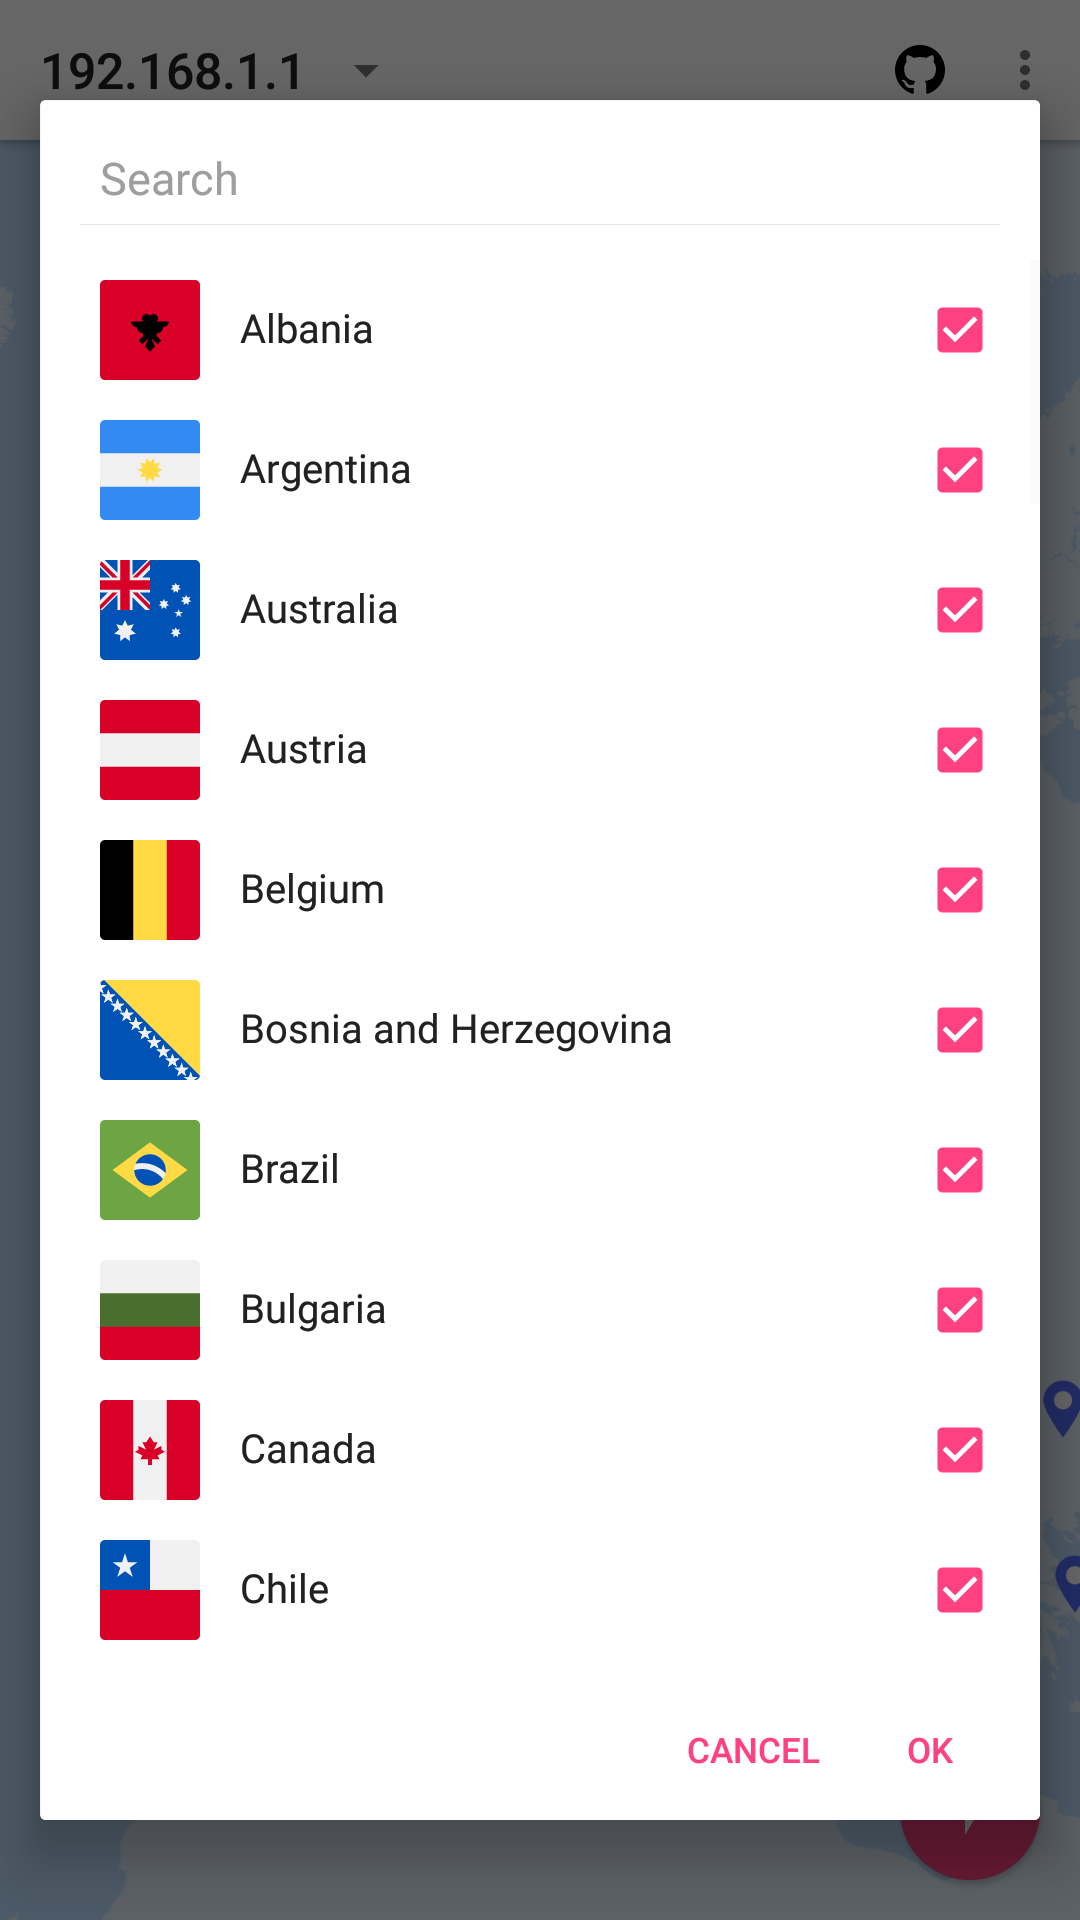
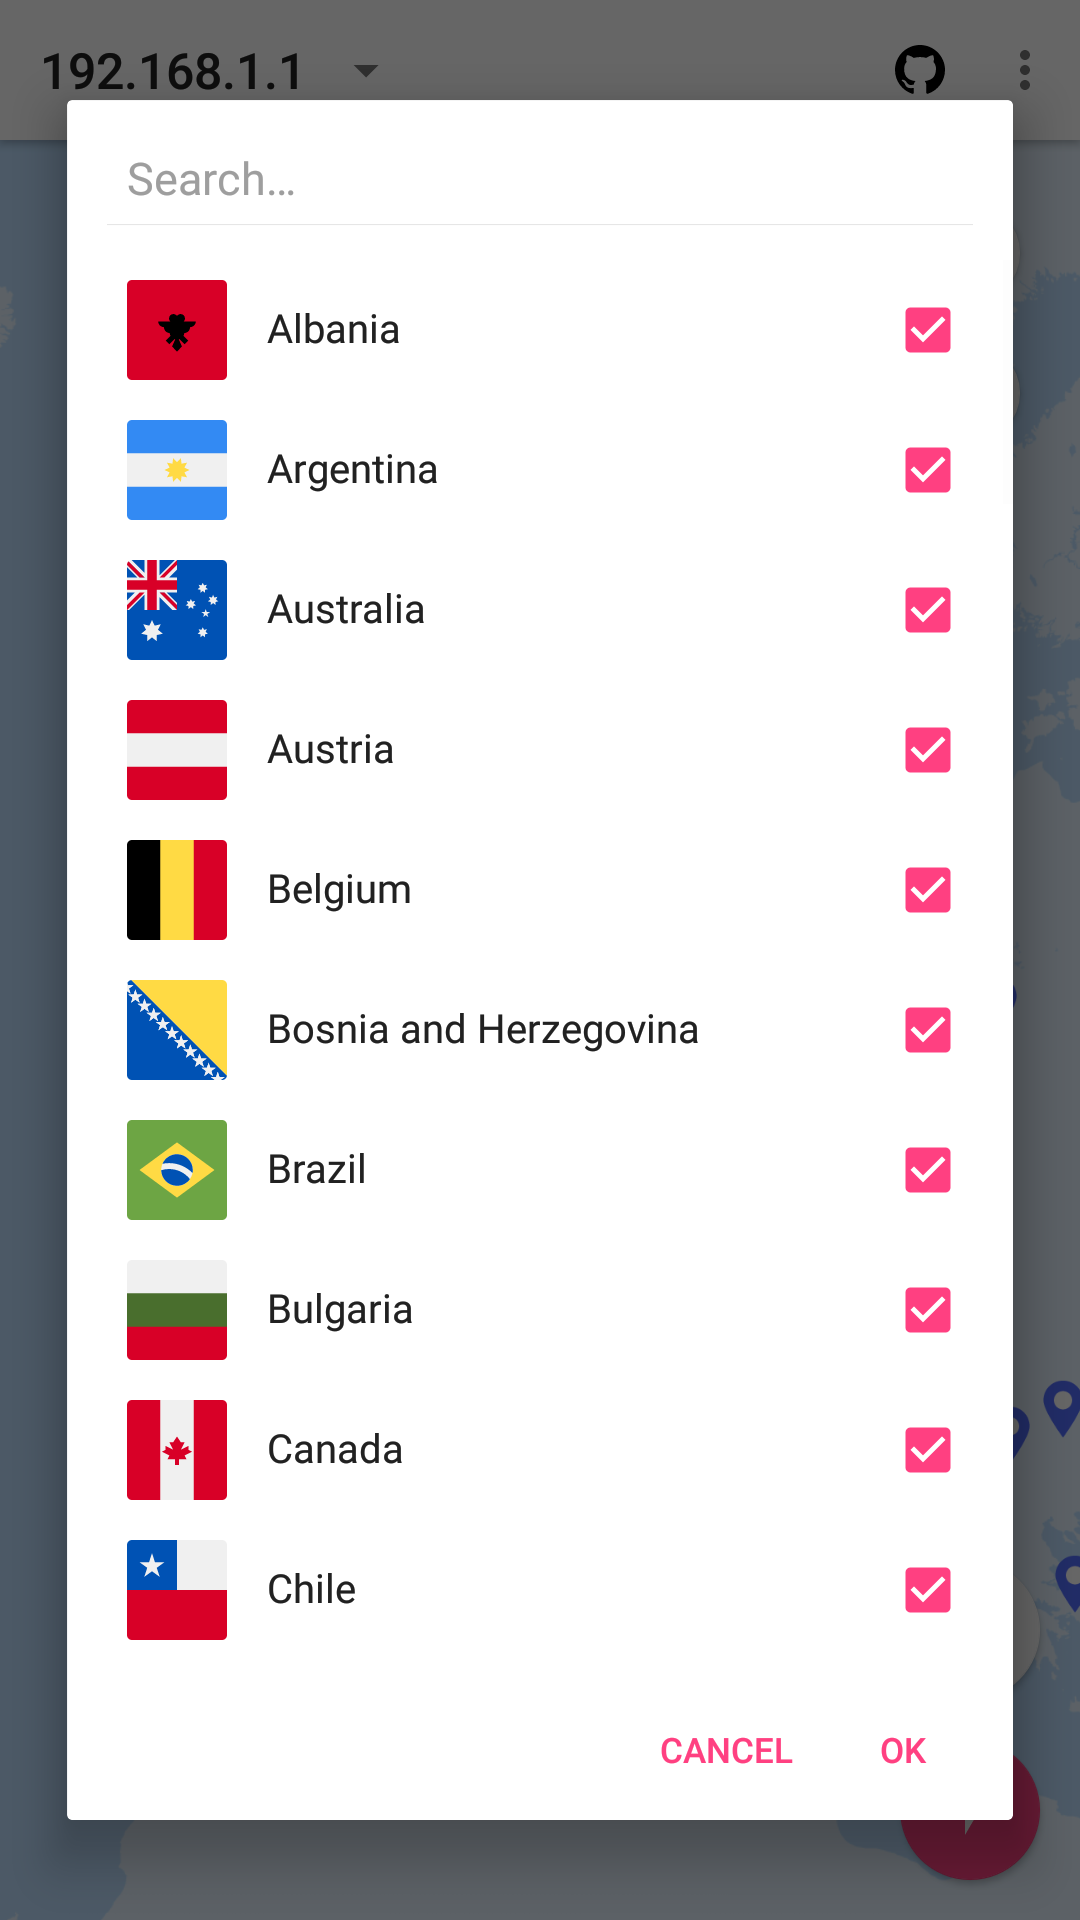
Update screenshots

diff --git a/app/src/androidTest/java/io/github/getsixtyfour/openpyn/MainActivityTest.kt b/app/src/androidTest/java/io/github/getsixtyfour/openpyn/MainActivityTest.kt
@@ -232,8 +232,6 @@ class MainActivityTest {
 
         BaristaSleepInteractions.sleep(1, TimeUnit.SECONDS)
 
-        Screengrab.screenshot("screenshot_05", screenshotStrategy, FileWritingScreenshotCustomCallback(appContext))
-
         appCompatImageButton.perform(click())
 
         BaristaSleepInteractions.sleep(1, TimeUnit.SECONDS)

diff --git a/README.md b/README.md
@@ -96,10 +96,11 @@ After the map is done loading, the NordVPN API is invoked to query all the suppo
 ## Screenshots
 
 <p align="middle">
-<img src="fastlane/metadata/android/en-US/images/phoneScreenshots/screenshot_01.png" width="24%">
-<img src="fastlane/metadata/android/en-US/images/phoneScreenshots/screenshot_02.png" width="24%">
-<img src="fastlane/metadata/android/en-US/images/phoneScreenshots/screenshot_03.png" width="24%">
-<img src="fastlane/metadata/android/en-US/images/phoneScreenshots/screenshot_04.png" width="24%">
+<img src="fastlane/metadata/android/en-US/images/phoneScreenshots/screenshot_01.png" width="18%">
+<img src="fastlane/metadata/android/en-US/images/phoneScreenshots/screenshot_01_01.png" width="18%">
+<img src="fastlane/metadata/android/en-US/images/phoneScreenshots/screenshot_02.png" width="18%">
+<img src="fastlane/metadata/android/en-US/images/phoneScreenshots/screenshot_03.png" width="18%">
+<img src="fastlane/metadata/android/en-US/images/phoneScreenshots/screenshot_04.png" width="18%">
 </p>
 
 ## Download
